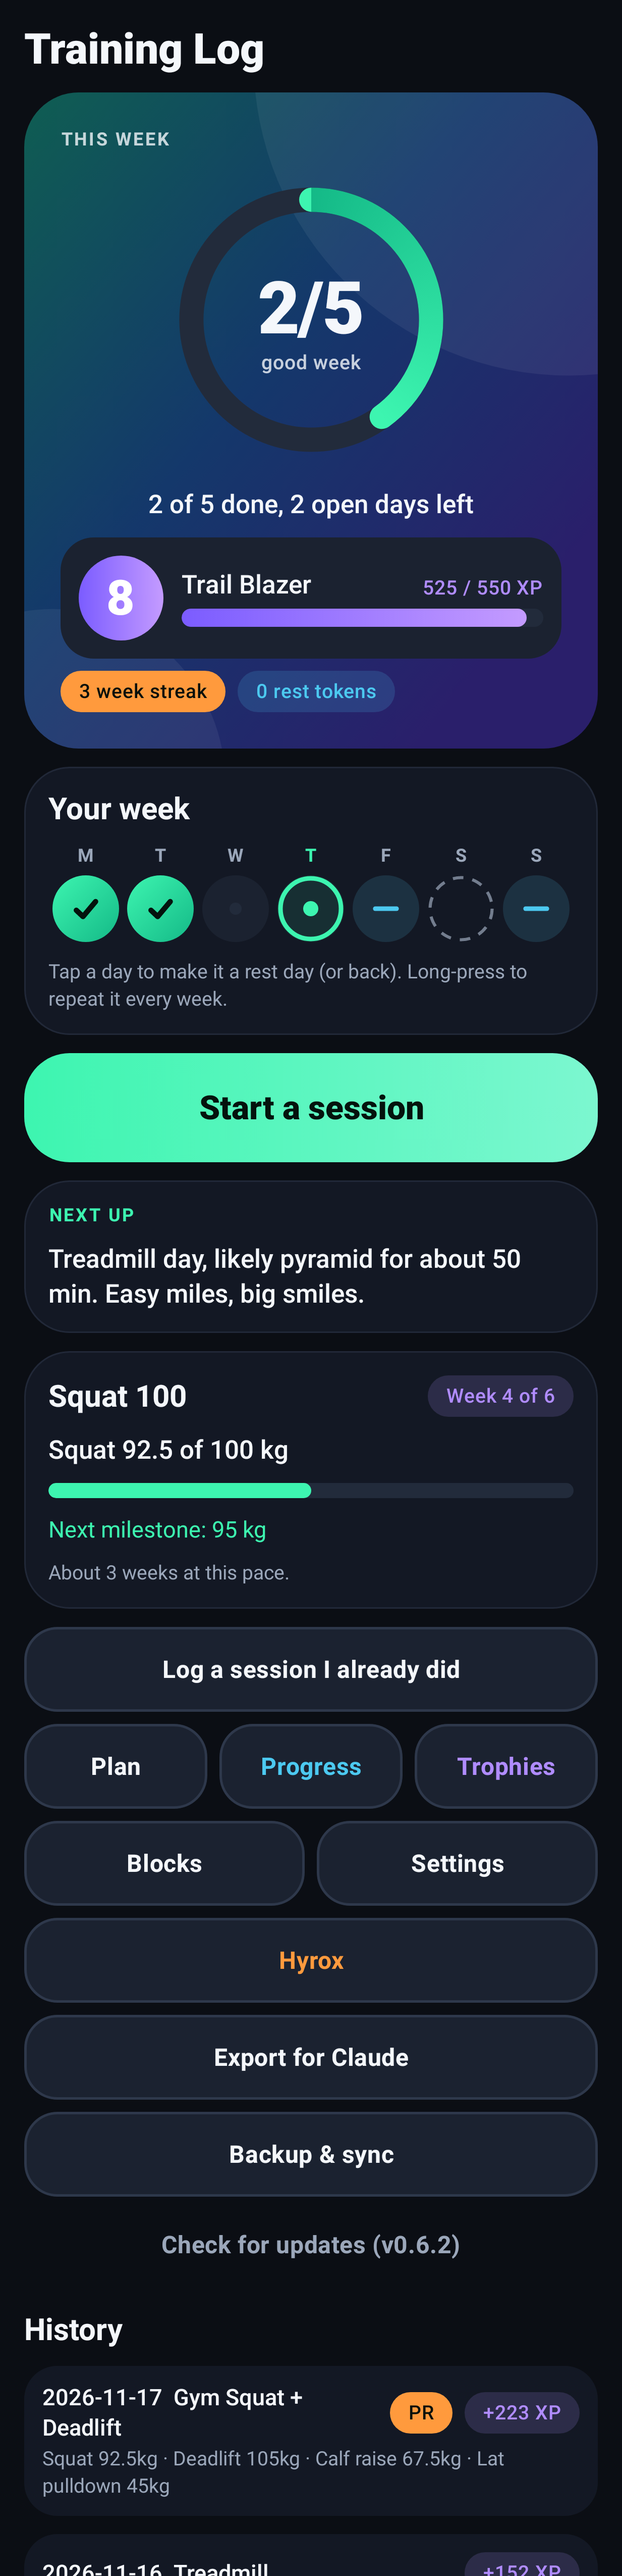
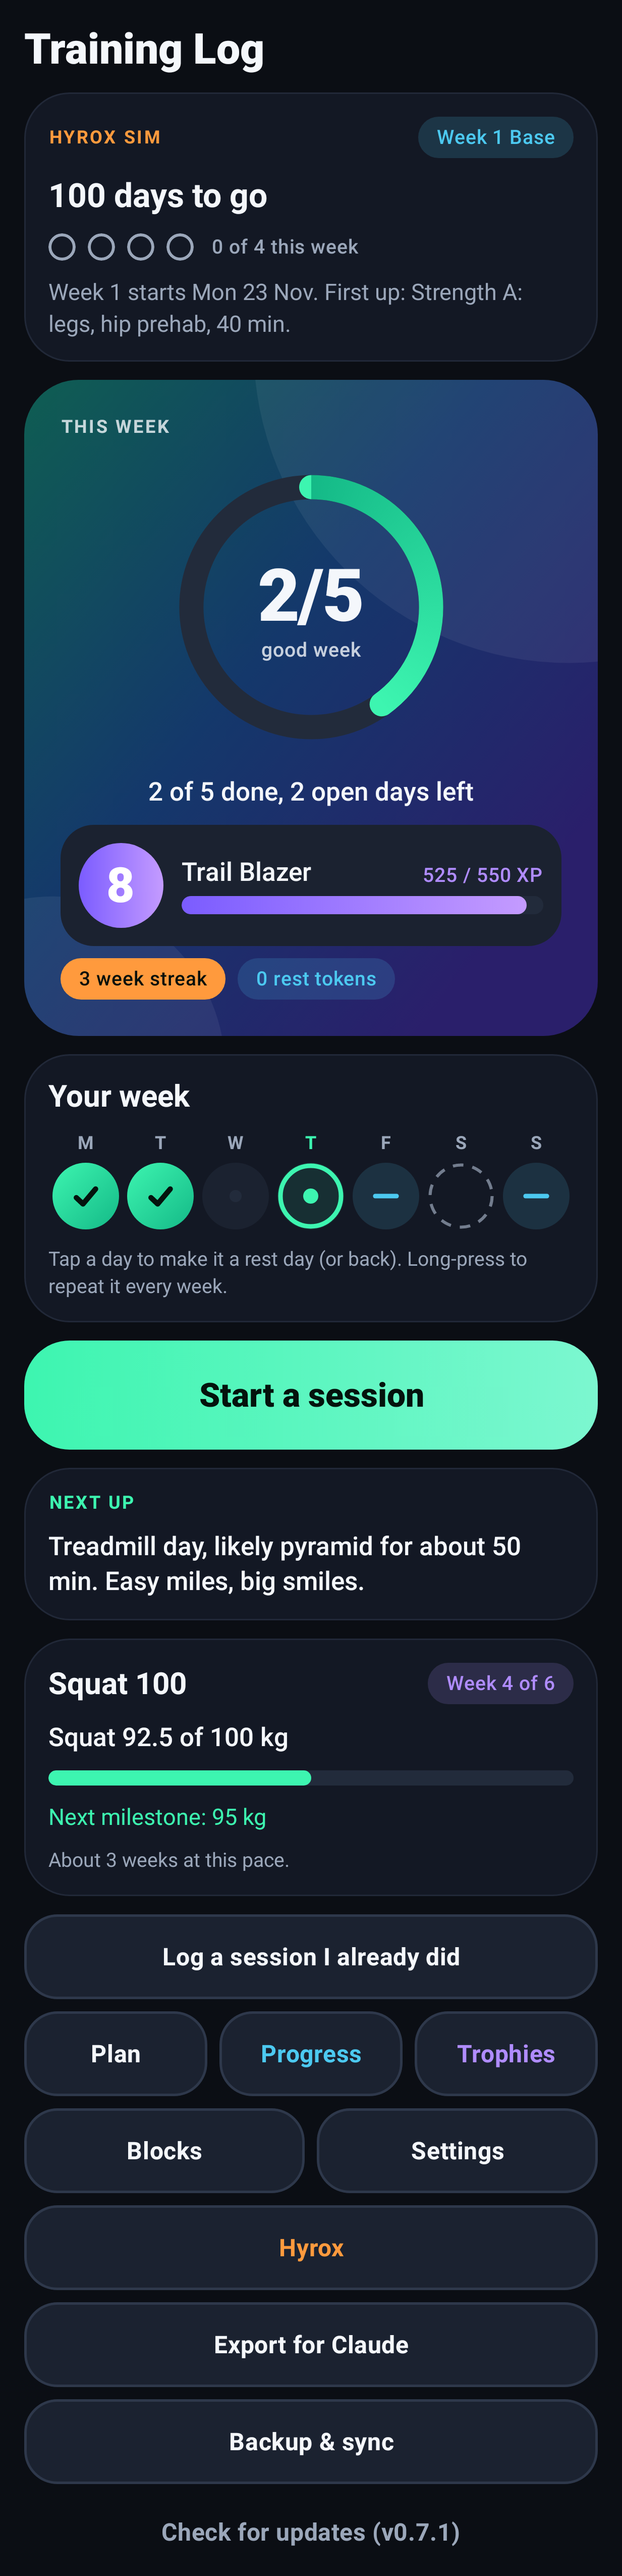
Release 0.8.0: Hyrox race plan, guided timers, 4 sessions and 300 min cap defaults
Claude-Session: https://claude.ai/code/session_01USUEX2X7VDondPJZM1ea1D

diff --git a/core/src/test/kotlin/com/calum/traininglog/core/RacePlannerTest.kt b/core/src/test/kotlin/com/calum/traininglog/core/RacePlannerTest.kt
@@ -542,11 +542,14 @@ class RacePlannerTest {
         assertEquals(u, json.decodeFromString<UserSettings>(json.encodeToString(u)))
         // Old JSON without the field.
         val old = json.decodeFromString<UserSettings>("""{"gymTarget":4}""")
-        assertEquals(RacePlanSettings(), old.racePlan)
+        // The app's own default is Calum's answers (4 sessions, 300 min cap); the planner's defaults are unchanged.
+        assertEquals(RacePlanSettings(sessionsPerWeek = 4, maxWeeklyMinutes = 300), old.racePlan)
         assertEquals(LocalDate.of(2027, 2, 27), old.racePlan.raceDate)
-        assertEquals(5, old.racePlan.sessionsPerWeek)
+        assertEquals(4, old.racePlan.sessionsPerWeek)
+        assertEquals(300, old.racePlan.maxWeeklyMinutes)
+        assertEquals(5, RacePlanSettings().sessionsPerWeek)
         assertTrue(old.racePlan.enabled)
-        assertEquals(RacePlanSettings(), json.decodeFromString<Profile>("{}").settings.racePlan)
+        assertEquals(UserSettings().racePlan, json.decodeFromString<Profile>("{}").settings.racePlan)
         assertEquals(6, RacePlanSettings(sessionsPerWeek = 9).sanitized().sessionsPerWeek)
         assertEquals(3, UserSettings(racePlan = RacePlanSettings(sessionsPerWeek = 1)).sanitized().racePlan.sessionsPerWeek)
     }

diff --git a/core/src/main/kotlin/com/calum/traininglog/core/Settings.kt b/core/src/main/kotlin/com/calum/traininglog/core/Settings.kt
@@ -59,7 +59,8 @@ data class UserSettings(
     val hyroxRunSpeedKmh: Double = 9.0,
     val hyroxRunInclinePct: Double = 1.0,
     /** Race-preparation plan (event date, sessions per week, on/off). */
-    val racePlan: RacePlanSettings = RacePlanSettings(),
+    /** Calum's answers: 4 sessions a week and about 5 hours (300 min) at most in any week. The planner's own defaults are unchanged. */
+    val racePlan: RacePlanSettings = RacePlanSettings(sessionsPerWeek = 4, maxWeeklyMinutes = 300),
 ) {
     /** The kit ticked for [place]. */
     fun hyroxGearAt(place: HyroxPlace): Set<HyroxGear> = if (place == HyroxPlace.GYM) hyroxGymGear else hyroxHomeGear

diff --git a/CHANGELOG.md b/CHANGELOG.md
@@ -2,6 +2,15 @@
 
 What changed in each release, in plain language, newest first. The release workflow copies the matching `## vX.Y.Z` section into the GitHub release, and the app shows it as "What's new" before you tap Update.
 
+## v0.8.0
+
+- A Hyrox race plan for your simulation on Saturday 27 February 2027: 14 weeks of base, build, specific work, a sharpening week, a two-week taper and race week. It is mostly easy work with about 20% hard and Hyrox-specific sessions, strength on separate days, and a taper that cuts volume while keeping intensity. It starts from what you actually do, never asks you to catch up, and repeats a week if it was a light one.
+- Set for you: 4 sessions a week and at most about 5 hours (300 minutes) in any week. You can change the race date, sessions (3 to 6) and the weekly cap on the Race plan screen.
+- Your knee comes first: running returns in stages (run-walk, continuous, intervals, runs between stations) and only moves on after two calm runs in a row (knee 2 out of 10 or less). The rower, SkiErg, incline walking and bike carry the aerobic work meanwhile. If pain persists, it suggests seeing your physio.
+- The Race plan screen: a countdown, a 14-week timeline, this week's sessions with a Start button for each, an easy/hard balance gauge and the running stages. The same session shows on Home and as the first suggestion when you start a session.
+- Every planned session can be started: strength opens the gym (with a station finisher card), Hyrox sessions open the guided Hyrox session, treadmill sessions (including run-walk) open the treadmill setup, and rower, SkiErg and bike sessions open a new guided timer with beeps. They are all saved and counted towards your balance automatically.
+- The evidence and its limits are written up in docs/hyrox-plan-evidence.md.
+
 ## v0.7.1
 
 - Hyrox at home: choose Gym or Home & garden when you set up a session. Tick the equipment you have in each place on the Hyrox page (the gym defaults to everything; at home you start with just the treadmill, so tick the wall ball or sandbag when you buy them). Home sessions only use stations you can do there, and tell you what is missing with a substitute.

diff --git a/README.md b/README.md
@@ -50,6 +50,10 @@ Personal progressive training app for Android (Pixel 6a). Asks how much time and
 
 - **Hyrox**: hub with the 8 stations by division, per-station technique, mistakes, knee notes, alternatives and a 6-level progression, a guided station session with lap timer and ratings, quick logging, PRs, badges and export. Standards are third-party figures (confirm at hyrox.com) and editable. See `core/.../Hyrox.kt`. Pick Gym or Home & garden per session (tick your kit under My equipment; home plans only use ticked kit), and optionally add treadmill runs between stations (counted-down time at your set speed, logged as `run` entries).
 
+## Added in v0.8
+
+- **Hyrox race plan** (14 weeks to 27 Feb 2027): periodised, mostly easy with ~20% hard, knee-gated running return, adaptive and guilt-free, with guided timers and launch routing for every planned session. Evidence and caveats in `docs/hyrox-plan-evidence.md`.
+
 Not yet built: training blocks, in-app settings for increments and starting weights.
 
 ## Starting weights are placeholders
